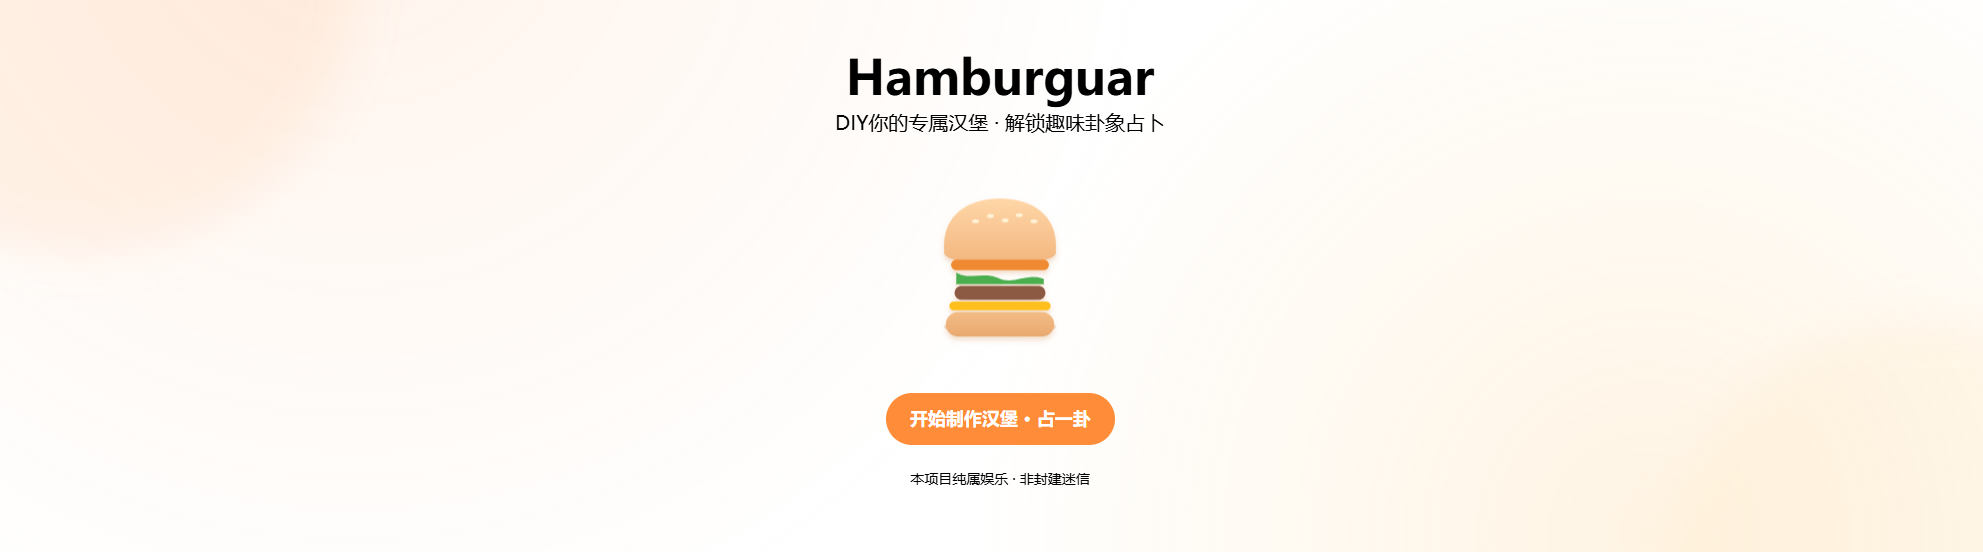
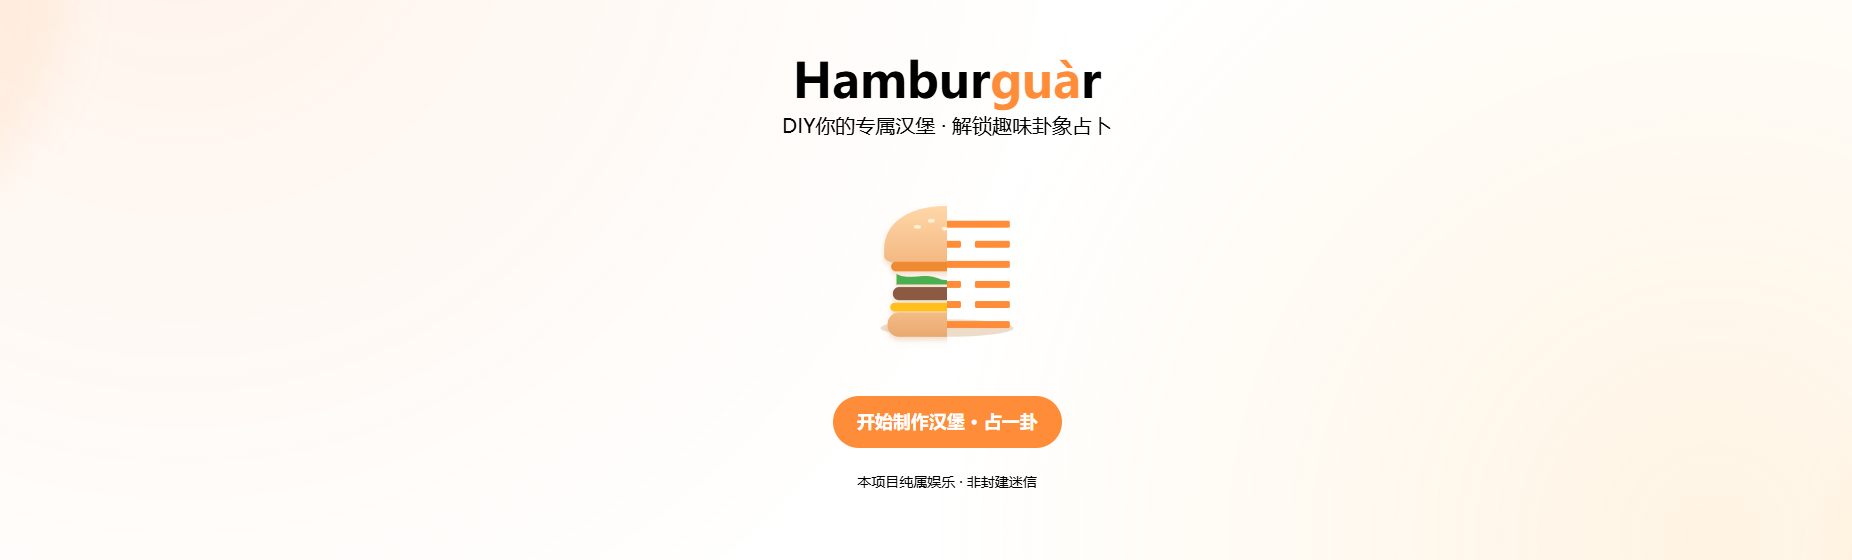
update hamburguar v1.1

Changed region(s): [[0.4001, 0.0924, 0.6156, 0.2464], [0.4617, 0.3388, 0.554, 0.6159], [0.4309, 0.7083, 0.5848, 0.8931]]

diff --git a/assets/js/app.js b/assets/js/app.js
@@ -201,11 +201,15 @@ function buildPrompt(gua, userData) {
 4. 卦象细节参考：${guaDetail}
 
 写作规则：
-1. 严格流程：捧起汉堡→第一口基底→中层展开→核心爆发→上层点缀→收尾→心绪→领悟
-2. 自然描写食材口感，心绪层层递进
-3. 结尾紧扣卦义+回应用户问题，用汉堡隐喻
-4. 全文不分段，180-280字，温柔治愈
-5. 严禁阴阳、爻、卦辞等玄学术语，纯娱乐
+
+
+1. 严格流程：拿起汉堡→第一口基底→中层展开→核心爆发→上层点缀→收尾→问题的答案和决策建议
+2. 只能输出一整段文本，内容保持连贯通顺，禁止分行或列点输出。
+3. 自然描写食材口感，心绪层层递进
+4. 结尾紧扣卦义+回应用户问题，给出具体可行的建议，而非泛泛而谈的鸡汤文
+5. 全文不分段，200-250字，文笔生动
+6. 生成的段落中一定要记得回答用户的问题，不能只是泛泛而谈，要能够切实帮助他们思考和解决问题，如果信息不确定，也必须给“偏向结论 + 条件触发”
+7. 严禁阴阳、爻、卦辞等专业术语
     `;
 }
 

diff --git a/index.html b/index.html
@@ -29,7 +29,7 @@
     <!-- 页面1：首页 -->
     <div id="page-home" class="page active text-center">
         <div class="max-w-md w-full">
-            <h1 class="text-5xl font-bold mb-2 text-primary">Hamburguar</h1>
+            <h1 class="text-5xl font-bold mb-2 text-dark">Hambur<span style="color:#FF8C38;">guà</span>r</h1>
             <p class="text-xl mb-8 opacity-80">DIY你的专属汉堡 · 解锁趣味卦象占卜</p>
             <div class="mb-8">
                 <svg class="w-48 h-48 mx-auto" viewBox="0 0 220 220" role="img" aria-label="汉堡图标">

diff --git a/README.md b/README.md
@@ -1,5 +1,5 @@
 <div align="center">
-<img src="./image.png" alt="Hamburguar 预览图" width="1500" />
+<img src="./image.png" alt="Hamburguar 预览图" />
 
 一个把「汉堡配料」和「六爻卦象」结合在一起的轻量互动网站。  
 用户可以自由组合六层食材，输入问题，获得对应卦象和文案结果。
